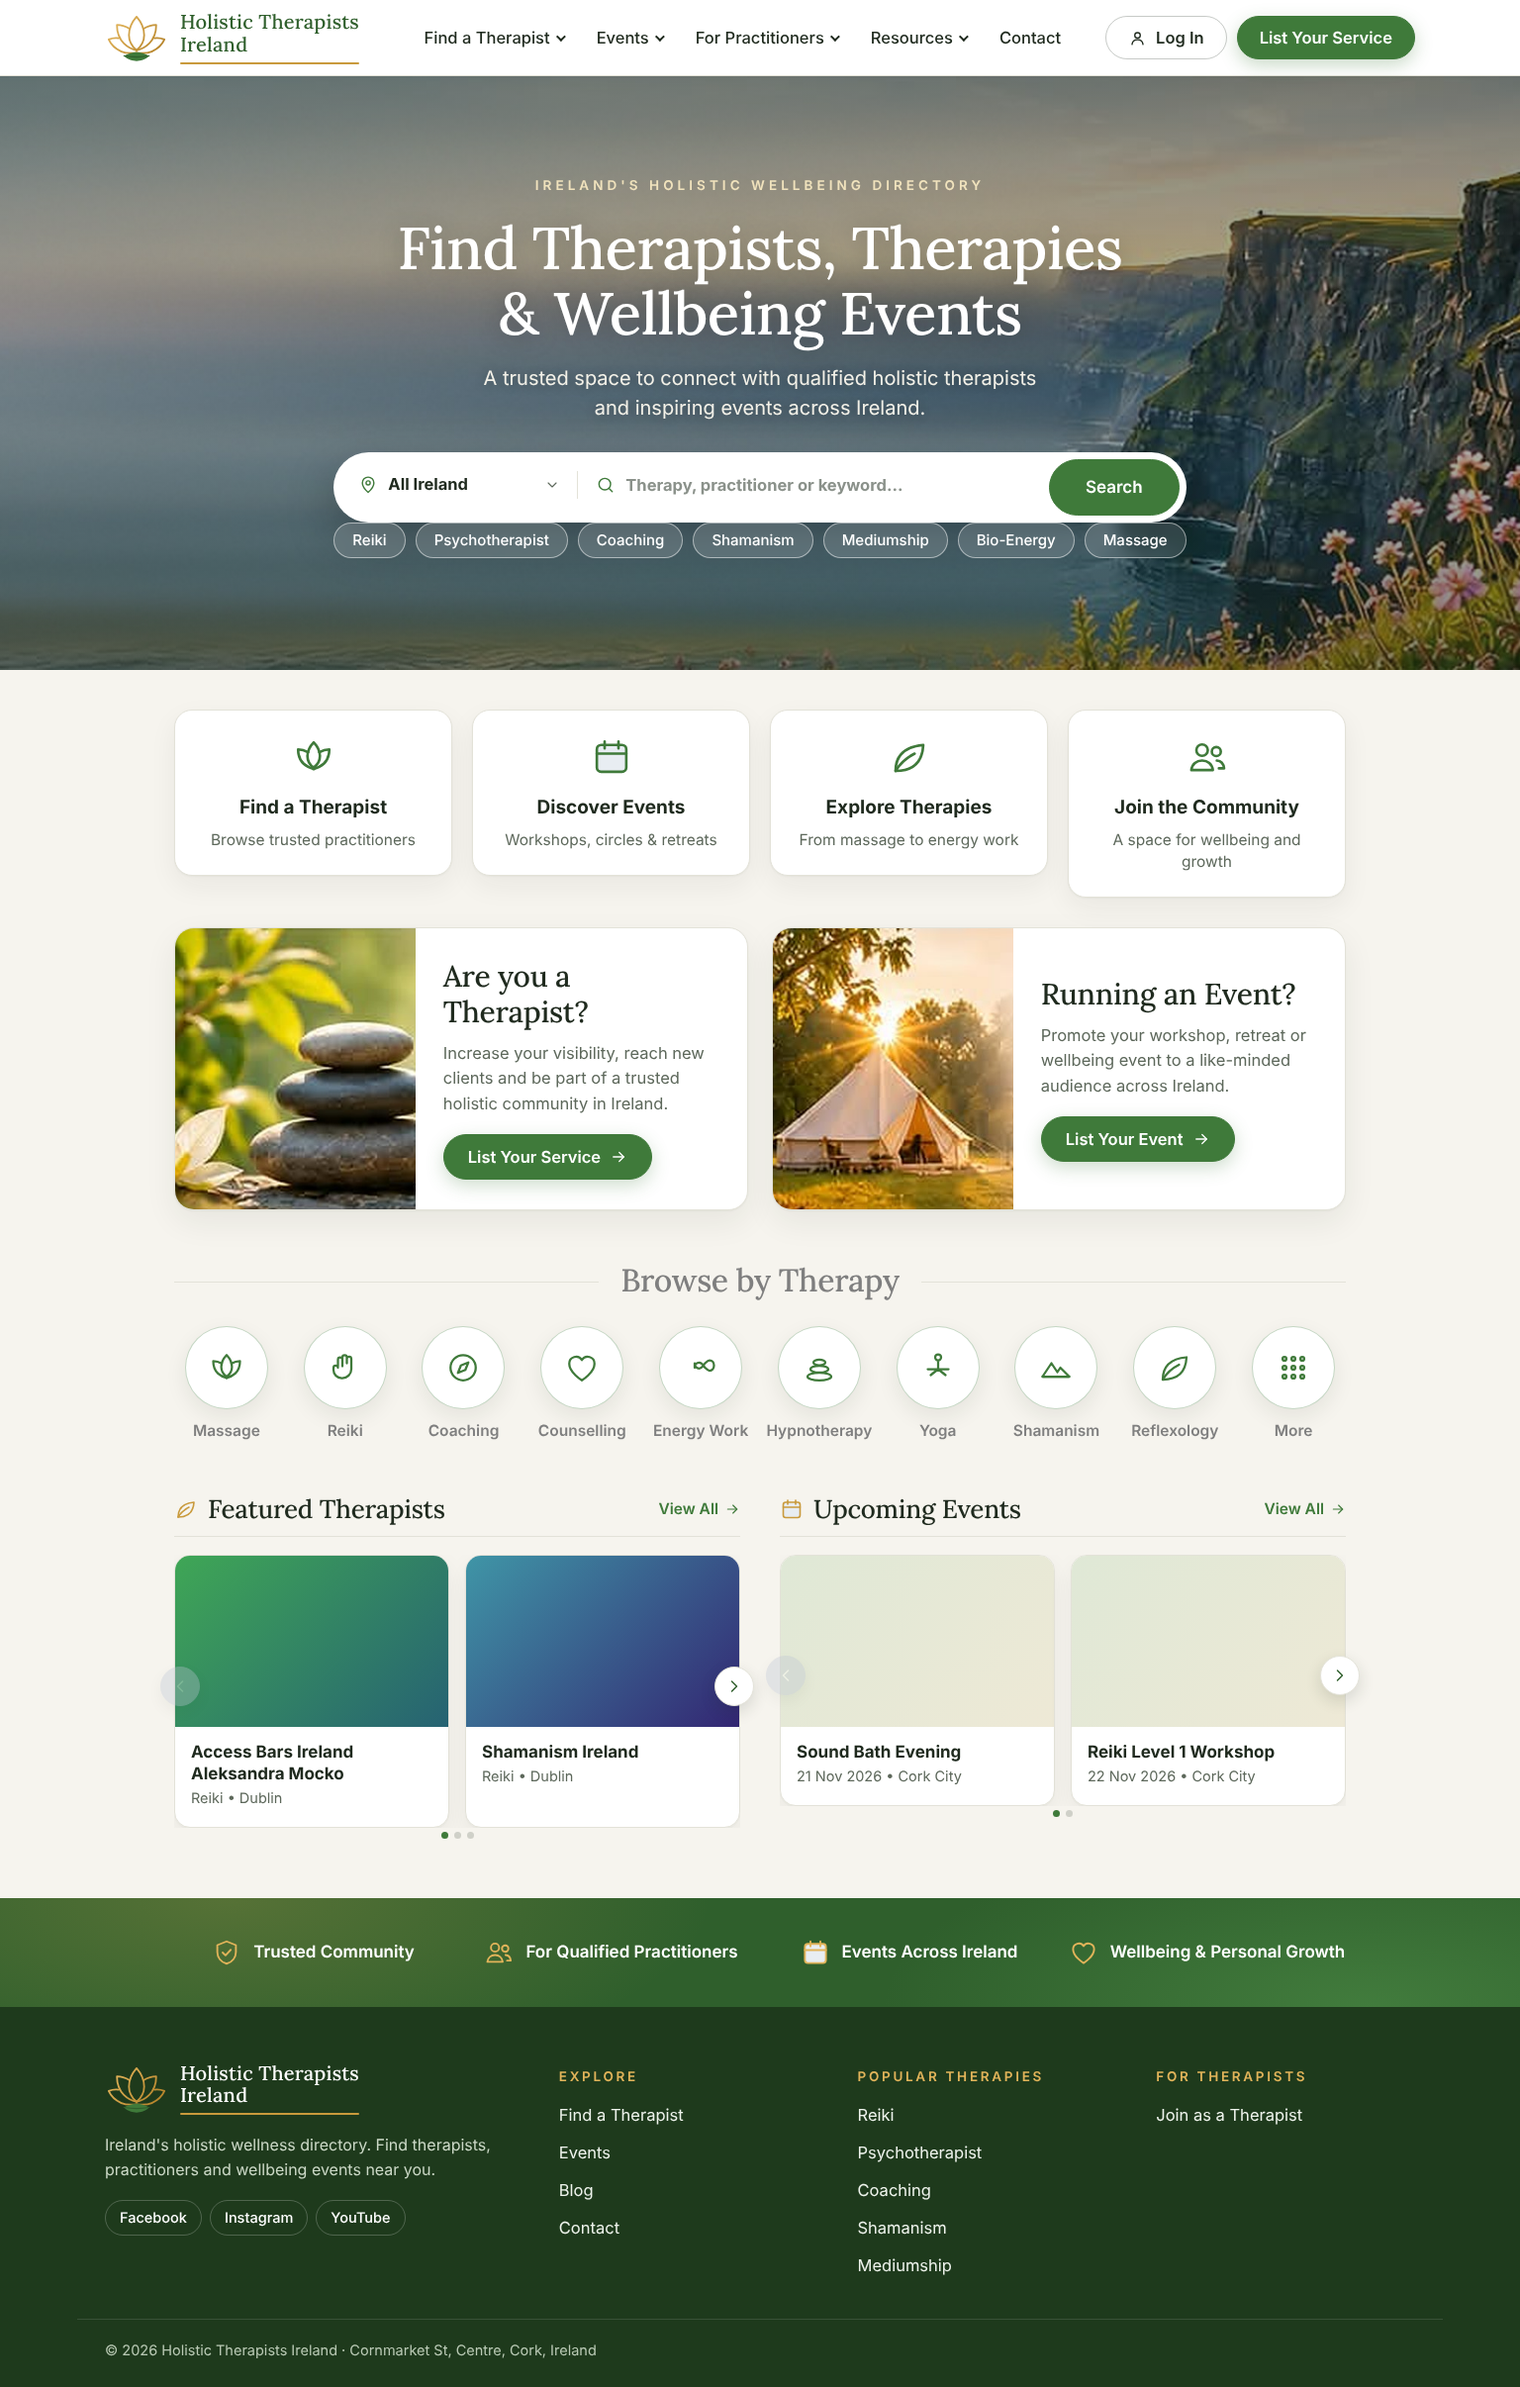
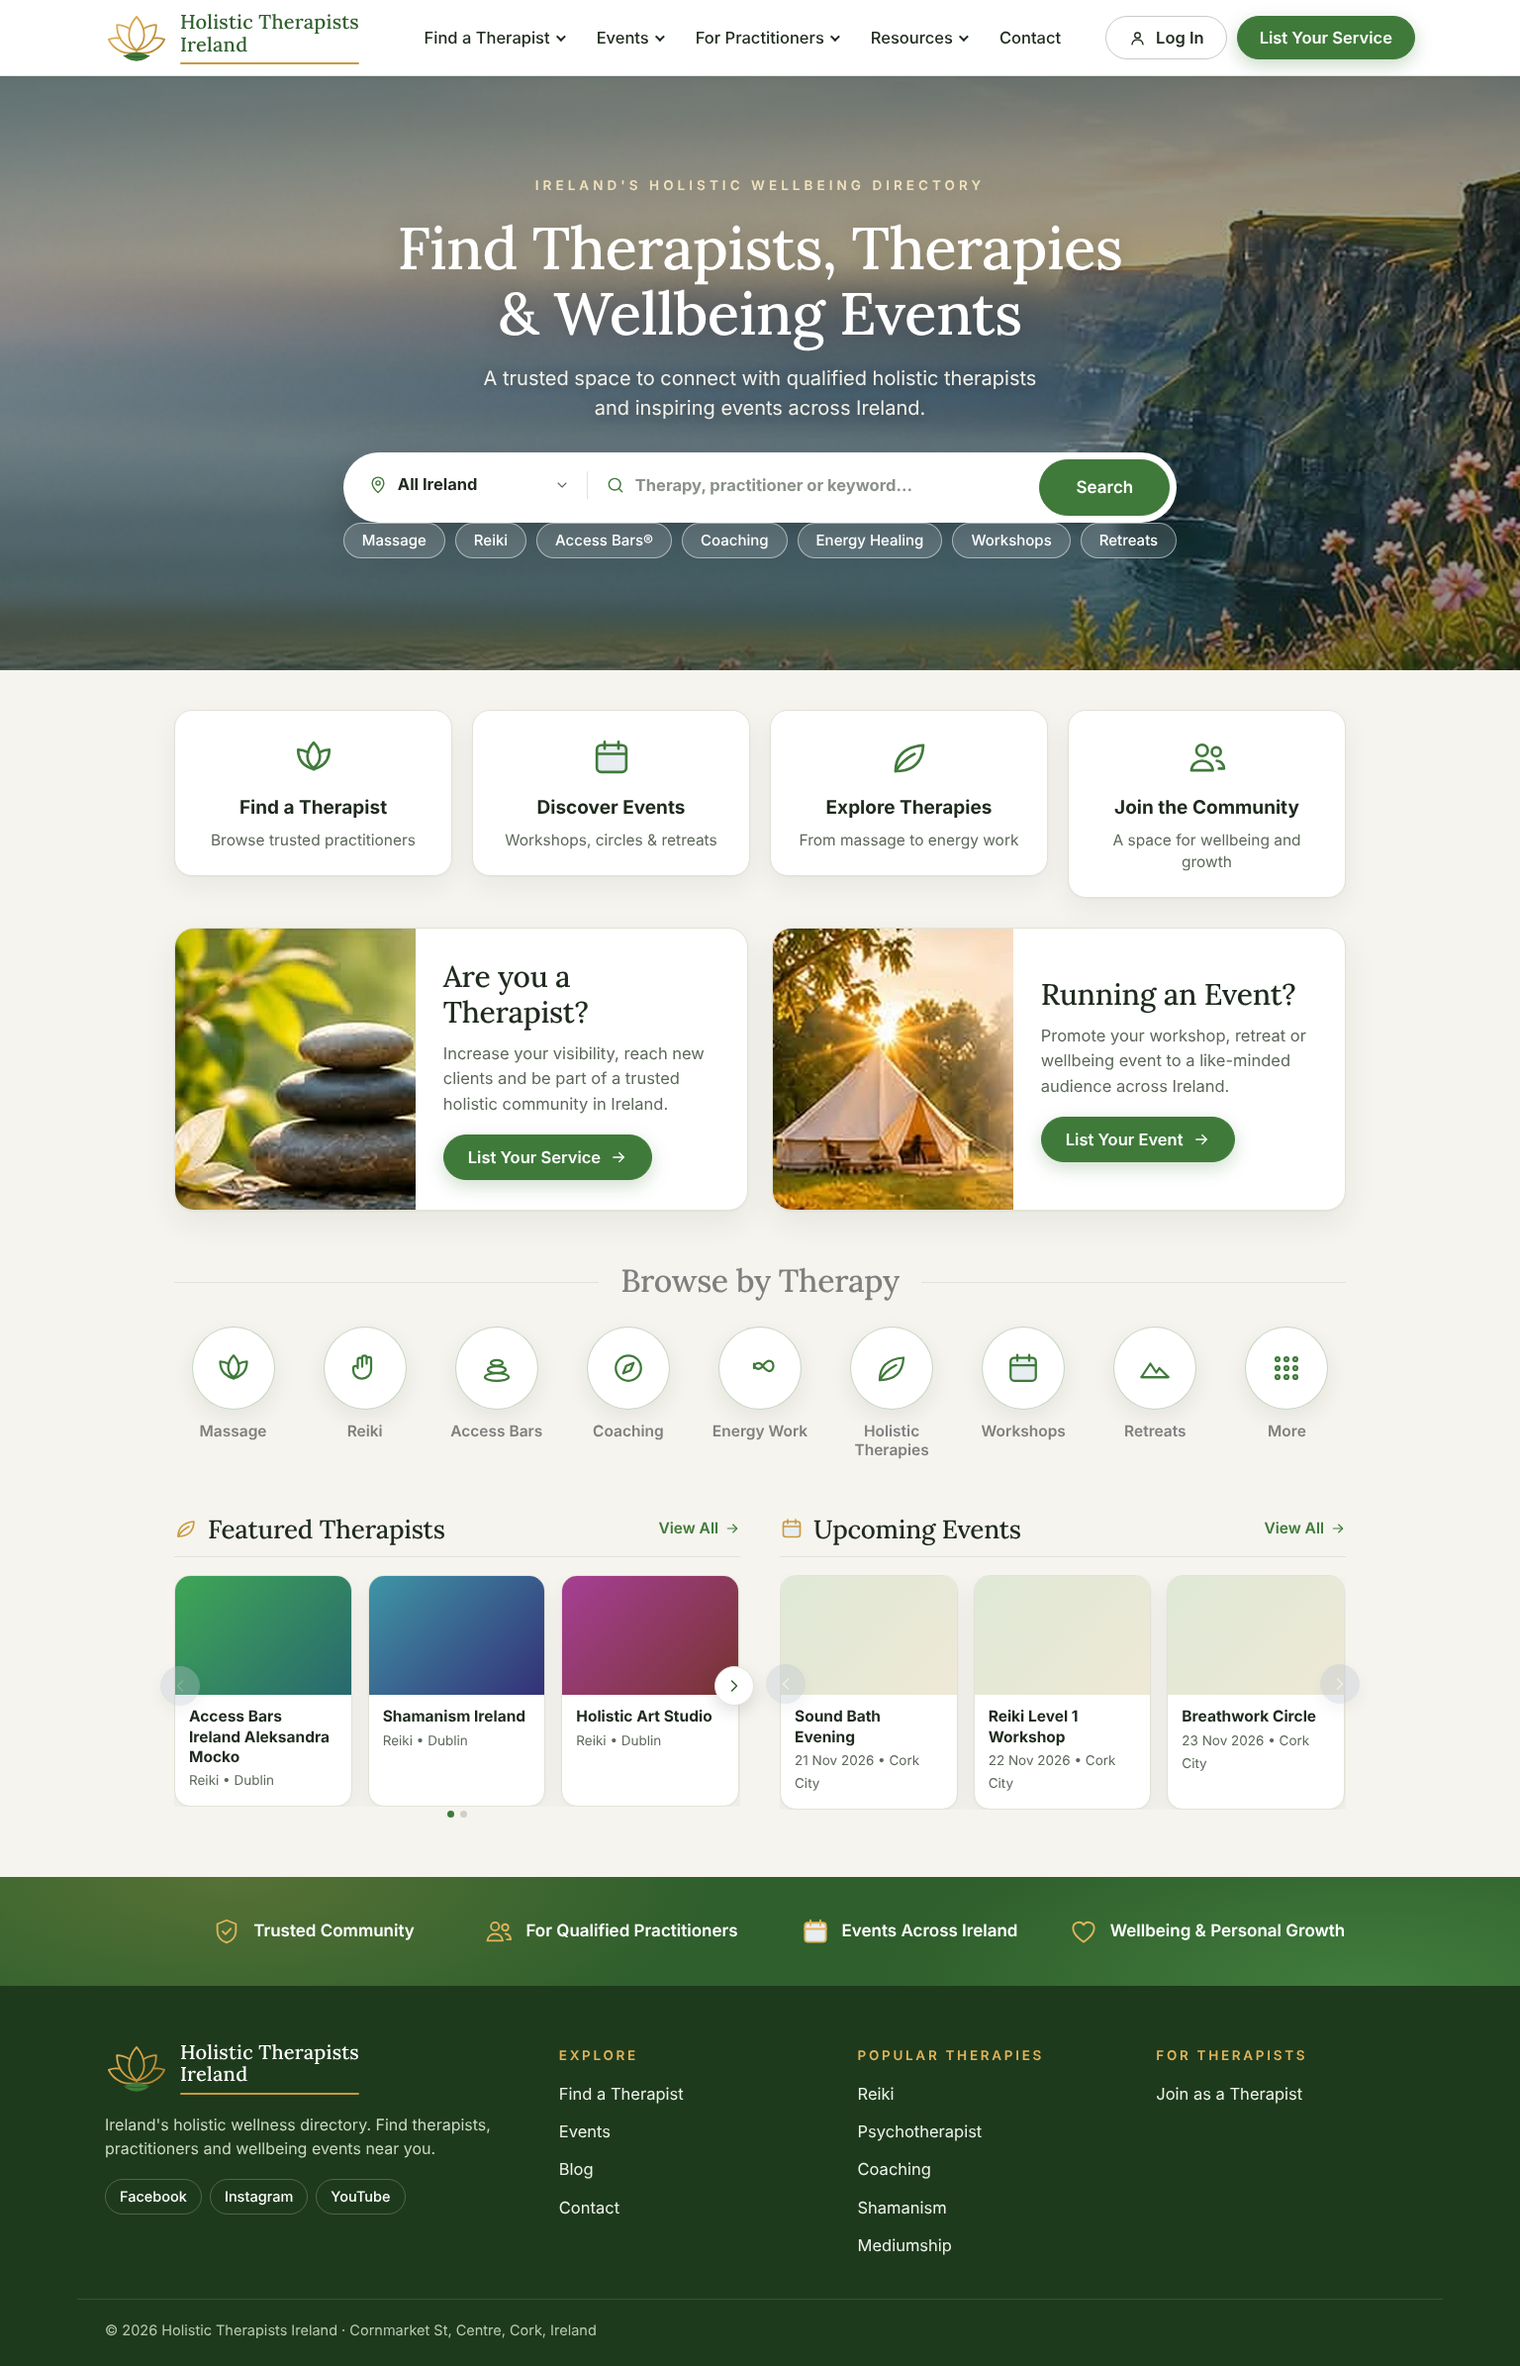
HT Neon 3.0.1: Natural home matches the design (chips, Browse by Therapy, 3-up carousels, cropped card images)
Claude-Session: https://claude.ai/code/session_01XaVTjUWekWGMHL4uyZ6zgE

diff --git a/assets/css/natural.css b/assets/css/natural.css
@@ -117,7 +117,7 @@ body.htn-natural .htn-nbox__body .htn-nbtn{margin-top:6px}
 
 /* ---------- Browse by therapy ---------- */
 .htn-nbrowse{padding-top:52px}
-.htn-nbrowse__list{display:grid;grid-template-columns:repeat(10,minmax(0,1fr));gap:14px}
+.htn-nbrowse__list{display:grid;grid-template-columns:repeat(9,minmax(0,1fr));gap:14px}
 body.htn-natural .htn-nbrowse__list a{display:flex;flex-direction:column;align-items:center;gap:12px;text-decoration:none;color:var(--htn-ink);font-family:var(--htn-sans);font-size:15.5px;font-weight:600;text-align:center;line-height:1.25}
 .htn-nbrowse__icon{display:flex;align-items:center;justify-content:center;width:84px;height:84px;border-radius:50%;background:#fff;border:1.5px solid rgba(63,122,58,.3);color:var(--htn-green-2);box-shadow:0 8px 22px rgba(31,42,30,.08);transition:transform .2s ease,background-color .2s ease,color .2s ease,border-color .2s ease}
 .htn-nbrowse__icon .htn-ico{width:36px;height:36px;stroke-width:1.5}
@@ -126,7 +126,7 @@ body.htn-natural .htn-nbrowse__list a:hover,body.htn-natural .htn-nbrowse__list 
 
 /* ---------- Featured therapists + events ---------- */
 .htn-ncols{padding-top:54px}
-.htn-ncols__grid{display:grid;grid-template-columns:repeat(2,minmax(0,1fr));gap:40px}
+.htn-ncols__grid{display:grid;grid-template-columns:repeat(2,minmax(0,1fr));gap:40px;align-items:start}
 .htn-ncol{min-width:0}
 .htn-nhead{display:flex;align-items:center;justify-content:space-between;gap:16px;margin-bottom:18px;padding-bottom:12px;border-bottom:1px solid var(--ht-line)}
 body.htn-natural .htn-nhead h2{display:flex;align-items:center;gap:10px;margin:0;font-size:clamp(22px,2vw,26px);font-weight:500;color:var(--htn-ink)}
@@ -137,13 +137,13 @@ body.htn-natural .htn-nhead > a .htn-ico{width:16px;height:16px}
 .htn-ncar{position:relative}
 .htn-ncar__track{display:flex;gap:16px;overflow-x:auto;scroll-snap-type:x mandatory;scroll-behavior:smooth;scrollbar-width:none;padding:4px 2px 10px}
 .htn-ncar__track::-webkit-scrollbar{display:none}
-.htn-ncar__track > li{flex:0 0 calc(50% - 8px);min-width:0;scroll-snap-align:start}
+.htn-ncar__track > li{flex:0 0 calc(33.333% - 11px);min-width:0;scroll-snap-align:start}
 body.htn-natural .htn-ncard{display:flex;flex-direction:column;height:100%;border-radius:16px;overflow:hidden;background:#fff;border:1px solid var(--ht-line);text-decoration:none;color:var(--htn-ink);box-shadow:0 1px 2px rgba(31,42,30,.04),0 10px 26px rgba(31,42,30,.06);transition:transform .2s ease,box-shadow .2s ease}
 body.htn-natural .htn-ncard:hover,body.htn-natural .htn-ncard:focus{transform:translateY(-3px);box-shadow:0 2px 4px rgba(31,42,30,.05),0 18px 40px rgba(31,42,30,.11);text-decoration:none;color:var(--htn-ink)}
-.htn-ncard__img{display:block;aspect-ratio:16/10;background:linear-gradient(135deg,#dfe8d6,#eee9d6)}
-.htn-ncard__img img{display:block;width:100%;height:100%;object-fit:cover}
-body.htn-natural .htn-ncard__title{display:block;padding:14px 16px 2px;font-family:var(--htn-sans);font-size:17px;font-weight:700;line-height:1.3;color:var(--htn-ink)}
-body.htn-natural .htn-ncard__meta{display:block;padding:0 16px 16px;font-family:var(--htn-sans);font-size:14.5px;color:var(--htn-muted)}
+body.htn-natural .htn-ncard__img{display:block;position:relative;height:0;padding-bottom:68%;overflow:hidden;background:linear-gradient(135deg,#dfe8d6,#eee9d6)}
+body.htn-natural .htn-ncard__img img{position:absolute;inset:0;display:block;width:100% !important;height:100% !important;max-width:none;object-fit:cover;border-radius:0}
+body.htn-natural .htn-ncard__title{display:block;padding:12px 14px 2px;font-family:var(--htn-sans);font-size:15.5px;font-weight:700;line-height:1.3;color:var(--htn-ink)}
+body.htn-natural .htn-ncard__meta{display:block;padding:0 14px 14px;font-family:var(--htn-sans);font-size:13.5px;color:var(--htn-muted)}
 .htn-ncar__nav{position:absolute;top:calc(50% - 30px);z-index:2;display:flex;align-items:center;justify-content:center;width:40px;height:40px;padding:0;border:1px solid var(--ht-line);border-radius:50%;background:#fff;color:var(--htn-green);cursor:pointer;box-shadow:0 6px 16px rgba(31,42,30,.14);transition:background-color .2s ease,color .2s ease,opacity .2s ease}
 .htn-ncar__nav .htn-ico{width:20px;height:20px}
 .htn-ncar__nav:hover{background:var(--htn-green-2);border-color:var(--htn-green-2);color:#fff}
@@ -239,6 +239,7 @@ html body.htn-natural .lp-mobile-logo,html body.htn-natural #slide-nav,html body
 /* ---------- Responsive ---------- */
 @media (max-width:1280px){
   .htn-nbrowse__list{grid-template-columns:repeat(5,minmax(0,1fr));gap:20px 14px}
+  .htn-ncar__track > li{flex-basis:calc(50% - 8px)}
 }
 @media (max-width:1100px){
   .htn-nfeatures__list{grid-template-columns:repeat(2,minmax(0,1fr))}
@@ -277,7 +278,6 @@ html body.htn-natural .lp-mobile-logo,html body.htn-natural #slide-nav,html body
   .htn-nbox__body{padding:22px 20px 24px}
   .htn-nbrowse{padding-top:36px}
   .htn-nbrowse__list{grid-template-columns:repeat(3,minmax(0,1fr));gap:18px 10px}
-  .htn-nbrowse__extra{display:none}
   .htn-nbrowse__icon{width:70px;height:70px}
   .htn-nbrowse__icon .htn-ico{width:30px;height:30px}
   body.htn-natural .htn-nbrowse__list a{font-size:14px}

diff --git a/templates/home-natural.php b/templates/home-natural.php
@@ -26,39 +26,45 @@ if ( is_wp_error( $htn_locs ) ) {
 	$htn_locs = array();
 }
 
-/* Quick chips under the search bar: real categories, most used first. */
-$htn_chips = array();
-foreach ( htn_top_categories( 7 ) as $htn_t ) {
-	$htn_l = get_term_link( $htn_t );
-	if ( ! is_wp_error( $htn_l ) ) {
-		$htn_chips[] = array( $htn_t->name, $htn_l );
-	}
-}
-
-/* Browse by therapy: label, icon, category slug (falls back to search). */
-$htn_browse = array(
-	array( 'Massage', 'lotus', 'massage' ),
-	array( 'Reiki', 'hands', 'reiki' ),
-	array( 'Coaching', 'compass', 'coaching' ),
-	array( 'Counselling', 'heart2', 'counselling' ),
-	array( 'Energy Work', 'infinity', 'bio-energy' ),
-	array( 'Hypnotherapy', 'stones', 'hypnotherapist' ),
-	array( 'Yoga', 'yoga', 'yoga' ),
-	array( 'Shamanism', 'mountain', 'shamanism' ),
-	array( 'Reflexology', 'leaf2', 'reflexology', '', 'htn-nbrowse__extra' ),
-);
-foreach ( $htn_browse as &$htn_b ) {
-	$htn_term = get_term_by( 'slug', $htn_b[2], 'listing-category' );
-	$htn_link = '';
-	if ( $htn_term && ! is_wp_error( $htn_term ) ) {
-		$htn_l = get_term_link( $htn_term );
-		if ( ! is_wp_error( $htn_l ) ) {
-			$htn_link = $htn_l;
+/* Resolve a label to a listing category (by slug, then by name), otherwise a search / events link. */
+$htn_cat_link = function ( $slugs, $fallback ) use ( $htn_find ) {
+	foreach ( (array) $slugs as $htn_slug ) {
+		$htn_term = get_term_by( 'slug', $htn_slug, 'listing-category' );
+		if ( ! $htn_term ) {
+			$htn_term = get_term_by( 'name', $htn_slug, 'listing-category' );
+		}
+		if ( $htn_term && ! is_wp_error( $htn_term ) ) {
+			$htn_l = get_term_link( $htn_term );
+			if ( ! is_wp_error( $htn_l ) ) {
+				return $htn_l;
+			}
 		}
 	}
-	$htn_b[3] = $htn_link ? $htn_link : add_query_arg( 'select', rawurlencode( $htn_b[2] ), $htn_find );
-}
-unset( $htn_b );
+	return $fallback ? $fallback : add_query_arg( 'select', rawurlencode( is_array( $slugs ) ? $slugs[0] : $slugs ), $htn_find );
+};
+
+/* Quick chips under the search bar – as in the design. */
+$htn_chips = array(
+	array( 'Massage', $htn_cat_link( array( 'massage' ), '' ) ),
+	array( 'Reiki', $htn_cat_link( array( 'reiki' ), '' ) ),
+	array( 'Access Bars&reg;', $htn_cat_link( array( 'access-bars', 'Access Bars' ), '' ) ),
+	array( 'Coaching', $htn_cat_link( array( 'coaching' ), '' ) ),
+	array( 'Energy Healing', $htn_cat_link( array( 'bio-energy', 'energy-healing', 'Bio-Energy' ), '' ) ),
+	array( 'Workshops', $htn_ev_url ),
+	array( 'Retreats', $htn_ev_url ),
+);
+
+/* Browse by therapy: label, icon, link – as in the design. */
+$htn_browse = array(
+	array( 'Massage', 'lotus', $htn_cat_link( array( 'massage' ), '' ) ),
+	array( 'Reiki', 'hands', $htn_cat_link( array( 'reiki' ), '' ) ),
+	array( 'Access Bars', 'stones', $htn_cat_link( array( 'access-bars', 'Access Bars' ), '' ) ),
+	array( 'Coaching', 'compass', $htn_cat_link( array( 'coaching' ), '' ) ),
+	array( 'Energy Work', 'infinity', $htn_cat_link( array( 'bio-energy', 'Bio-Energy' ), '' ) ),
+	array( 'Holistic Therapies', 'leaf2', $htn_cat_link( array( 'therapist', 'Therapist' ), $htn_find ) ),
+	array( 'Workshops', 'calendar', $htn_ev_url ),
+	array( 'Retreats', 'mountain', $htn_ev_url ),
+);
 
 get_header();
 ?>
@@ -97,7 +103,7 @@ get_header();
 			<?php if ( $htn_chips ) : ?>
 				<ul class="htn-chips">
 					<?php foreach ( $htn_chips as $htn_c ) : ?>
-						<li><a href="<?php echo esc_url( $htn_c[1] ); ?>"><?php echo esc_html( $htn_c[0] ); ?></a></li>
+						<li><a href="<?php echo esc_url( $htn_c[1] ); ?>"><?php echo wp_kses( $htn_c[0], array() ); ?></a></li>
 					<?php endforeach; ?>
 				</ul>
 			<?php endif; ?>
@@ -141,7 +147,7 @@ get_header();
 			<h2 class="htn-ntitle" id="htn-browse-title"><span>Browse by Therapy</span></h2>
 			<ul class="htn-nbrowse__list">
 				<?php foreach ( $htn_browse as $htn_b ) : ?>
-					<li class="<?php echo esc_attr( isset( $htn_b[4] ) ? $htn_b[4] : '' ); ?>"><a href="<?php echo esc_url( $htn_b[3] ); ?>"><span class="htn-nbrowse__icon"><?php echo htn_icon( $htn_b[1] ); // phpcs:ignore WordPress.Security.EscapeOutput ?></span><span><?php echo esc_html( $htn_b[0] ); ?></span></a></li>
+					<li><a href="<?php echo esc_url( $htn_b[2] ); ?>"><span class="htn-nbrowse__icon"><?php echo htn_icon( $htn_b[1] ); // phpcs:ignore WordPress.Security.EscapeOutput ?></span><span><?php echo esc_html( $htn_b[0] ); ?></span></a></li>
 				<?php endforeach; ?>
 				<li><a href="<?php echo esc_url( $htn_find ); ?>"><span class="htn-nbrowse__icon"><?php echo htn_icon( 'grid' ); // phpcs:ignore WordPress.Security.EscapeOutput ?></span><span>More</span></a></li>
 			</ul>

diff --git a/ht-neon.php b/ht-neon.php
@@ -2,7 +2,7 @@
 /**
  * Plugin Name: HT Neon
  * Description: Ciemny, fioletowo-różowy wygląd holistictherapists.ie nakładany na motyw ListingPro: własny nagłówek z logo, nowa strona główna (baner z wyszukiwarką, kategorie, zachęta do rejestracji, liczniki) i odświeżone podstrony. Tryb podglądu pokazuje zmiany tylko administratorom. Wyłączenie wtyczki przywraca poprzedni wygląd.
- * Version: 3.0.0
+ * Version: 3.0.1
  * Author: Holistic Therapists Ireland
  * License: GPL-2.0-or-later
  * Requires at least: 6.0
@@ -14,7 +14,7 @@ if ( ! defined( 'ABSPATH' ) ) {
 	exit;
 }
 
-define( 'HTN_VERSION', '3.0.0' );
+define( 'HTN_VERSION', '3.0.1' );
 define( 'HTN_OPTION', 'htn_settings' );
 define( 'HTN_URL', plugin_dir_url( __FILE__ ) );
 define( 'HTN_PATH', plugin_dir_path( __FILE__ ) );
